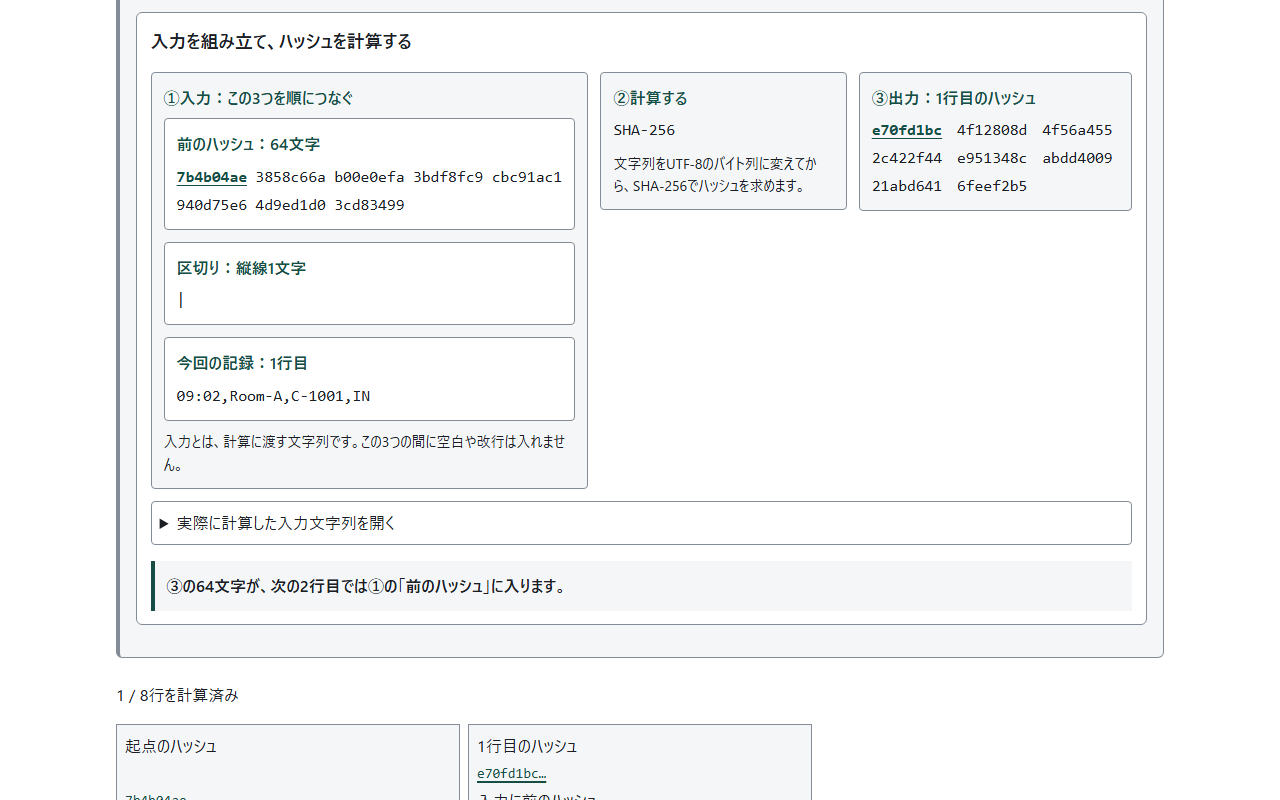
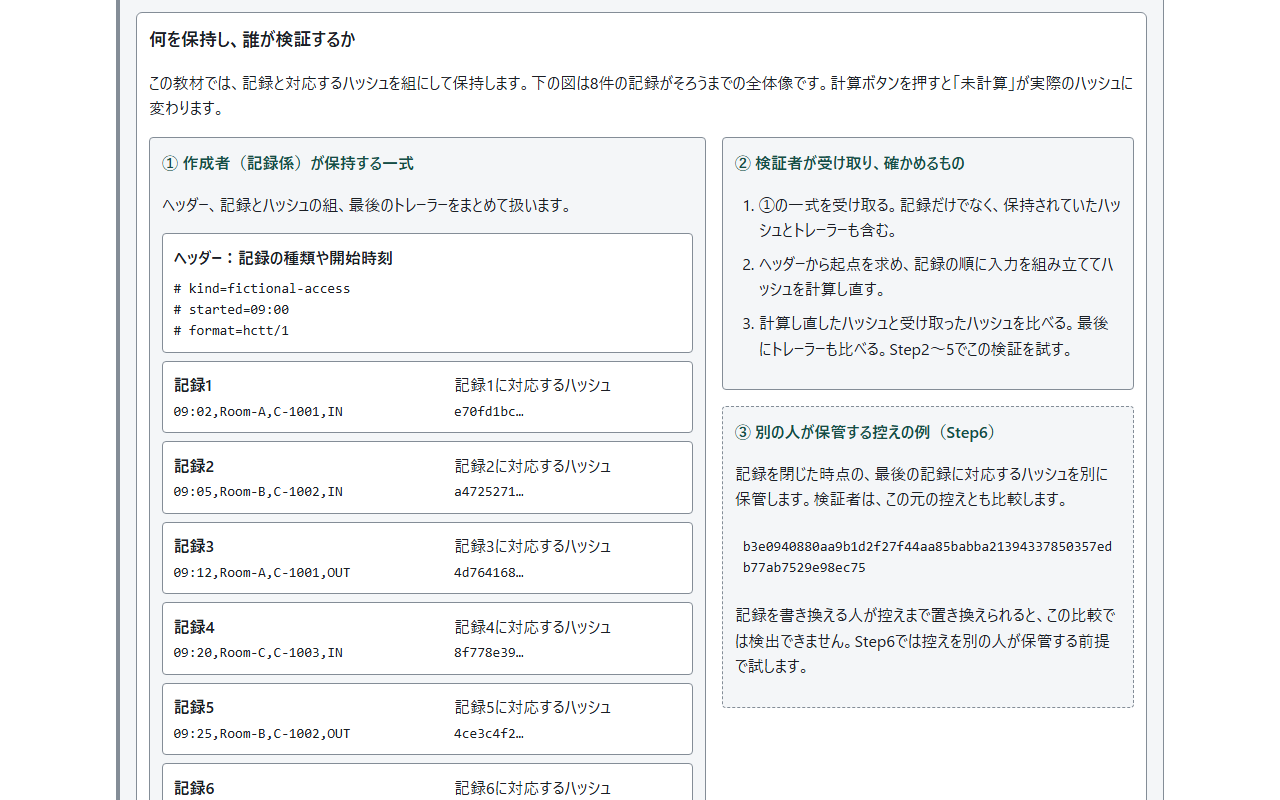
保持するデータと検証者の役割を全体図で説明

diff --git a/messages.js b/messages.js
@@ -459,6 +459,27 @@
     "guide.now": "いま起きたこと",
     "guide.mechanism": "仕組みの解説",
     "guide.waiting": "このステップの操作は、まだ実行していません。\n\n上のボタンを押すと、何を変更し、どの値が一致または不一致になったかをここに表示します。",
+    "overview.title": "何を保持し、誰が検証するか",
+    "overview.sample": "まず、架空の入退室データを見ます。時刻・部屋・カードID・入退室の4項目で1件の記録です。",
+    "overview.intro": "この教材では、記録と対応するハッシュを組にして保持します。下の図は8件の記録がそろうまでの全体像です。計算ボタンを押すと「未計算」が実際のハッシュに変わります。",
+    "overview.recorder": "① 作成者（記録係）が保持する一式",
+    "overview.bundle": "ヘッダー、記録とハッシュの組、最後のトレーラーをまとめて扱います。",
+    "overview.header": "ヘッダー：記録の種類や開始時刻",
+    "overview.pending": "未計算",
+    "overview.trailer": "トレーラー：件数と終わりを確認する値",
+    "overview.trailerPending": "8件すべてのハッシュを計算した後、最後のハッシュと「rows=8」から求めます。",
+    "overview.hashNote": "記録と並べるハッシュは先頭8文字だけを表示します。64文字の全文と計算用入力は、下の計算結果を開くと読めます。",
+    "overview.verifier": "② 検証者が受け取り、確かめるもの",
+    "overview.receive": "①の一式を受け取る。記録だけでなく、保持されていたハッシュとトレーラーも含む。",
+    "overview.recompute": "ヘッダーから起点を求め、記録の順に入力を組み立ててハッシュを計算し直す。",
+    "overview.compare": "計算し直したハッシュと受け取ったハッシュを比べる。最後にトレーラーも比べる。Step2〜5でこの検証を試す。",
+    "overview.keeper": "③ 別の人が保管する控えの例（Step6）",
+    "overview.checkpoint": "記録を閉じた時点の、最後の記録に対応するハッシュを別に保管します。検証者は、この元の控えとも比較します。",
+    "overview.tipPending": "8件の計算が終わると、控えにするハッシュの例をここに表示します。",
+    "overview.independent": "記録を書き換える人が控えまで置き換えられると、この比較では検出できません。Step6では控えを別の人が保管する前提で試します。",
+    "overview.input": "計算用の入力文字列は、保持する記録そのものとは別です。「前のハッシュ64文字」＋「|」＋「今回の記録の4項目」を一時的につなぎ、全体をUTF-8のバイト列に変換してSHA-256に渡します。記録1では、前のハッシュに起点を使います。",
+    "overview.scope": "これは本ツールで扱う構成の一例です。ファイル形式や公開範囲は運用で決めます。ここでは全役割を同じブラウザー内で再現し、データを外へ送ったりファイルに保存したりしません。",
+    "overview.jump": "完成したデータの全体図へ戻る",
     "guide.sample": "サンプルは架空の入退室データ8件です。時刻、部屋、架空のカードID、入室INまたは退室OUTの4項目を1件の「記録」とし、記録1〜記録8の番号を付けます。\n\nたとえば記録1「09:02,Room-A,C-1001,IN」は、9時2分に部屋AでカードC-1001が入室したことを表します。\n\n「記録1」はこの4項目のデータです。「記録1に対応するハッシュ」は、その記録を含む入力から計算した出力です。\n\nこの教材では、記録と対応するハッシュを組にしてブラウザー内で保持します。検証では新しく計算したハッシュと、保持していたハッシュを比べます。画面に両方を示すのは学習のためで、実際の運用で記録の一般公開が必要という意味ではありません。",
     "guide.hashDisplay": "ハッシュの全文は64文字あります。まず、起点のハッシュを例に、画面の短縮表示と全文を見比べてください。",
     "guide.avalanche": "この例では、時刻を「09:05」から「09:06」へ1文字変えるだけで、ハッシュの多くの桁が変わります。\n\n入力の小さな変化が出力の多くの部分に影響する性質を、雪崩効果と呼びます。操作後の比較では、変わった桁を色と下線で示します。",
@@ -1070,6 +1091,27 @@
     "guide.now": "What just happened",
     "guide.mechanism": "How it works",
     "guide.waiting": "This step has not been run yet.\n\nPress the button above to see an explanation using the calculated values.",
+    "overview.title": "What is kept, and who verifies it?",
+    "overview.sample": "Start with fictional access data. One record contains four fields: time, room, card ID, and entry or exit.",
+    "overview.intro": "This tool keeps each record together with its corresponding hash. The diagram shows the structure for all eight records. As you calculate, Pending is replaced by each actual hash.",
+    "overview.recorder": "1. The bundle kept by the recorder",
+    "overview.bundle": "Keep the header, record/hash pairs, and closing trailer together.",
+    "overview.header": "Header: record type and start time",
+    "overview.pending": "Pending",
+    "overview.trailer": "Trailer: a check of the count and ending",
+    "overview.trailerPending": "After all eight hashes are calculated, derive the trailer from the final hash and rows=8.",
+    "overview.hashNote": "Hashes beside the records show only their first eight characters. Expand the calculation results below to read all 64 characters and the input string.",
+    "overview.verifier": "2. What the verifier receives and checks",
+    "overview.receive": "Receive the entire bundle in 1, including the stored hashes and trailer as well as the records.",
+    "overview.recompute": "Derive the seed from the header, then rebuild each input and recompute its hash in record order.",
+    "overview.compare": "Compare each recomputed hash with the received hash, then compare the trailer. Try this verification in steps 2–5.",
+    "overview.keeper": "3. A checkpoint held by someone else (step 6)",
+    "overview.checkpoint": "At log closure, keep the final record’s hash separately. The verifier also compares against this original checkpoint.",
+    "overview.tipPending": "Complete all eight calculations to see the hash that could be kept as the checkpoint.",
+    "overview.independent": "This comparison cannot detect a change if the person changing the records can also replace the checkpoint. Step 6 assumes a different person holds it.",
+    "overview.input": "The calculation input is distinct from the stored record. Temporarily join the previous 64-character hash, |, and the current record’s four fields. Encode the whole string as UTF-8 bytes and pass it to SHA-256. Record 1 uses the seed as its previous hash.",
+    "overview.scope": "This is one arrangement used by this tool. File formats and access policies are deployment choices. Every role is simulated in the same browser; no data is sent out or saved to a file.",
+    "overview.jump": "Return to the completed data overview",
     "guide.sample": "The sample contains 8 fictional access records, numbered record 1 through record 8. Each record has four fields: time, room, fictional card ID, and entry IN or exit OUT.\n\nRecord 1, “09:02,Room-A,C-1001,IN”, describes card C-1001 entering Room A at 09:02.\n\n“Record 1” means those four data fields. “The hash for record 1” means the output calculated from an input that includes that record.\n\nThis tool keeps each record together with its corresponding hash in browser memory. Verification compares a newly calculated hash with the stored hash. Both are displayed for learning; this does not mean real deployments must make records public.",
     "guide.hashDisplay": "A full hash has 64 characters. Use the seed hash below to compare the short screen display with the complete value.",
     "guide.avalanche": "Even a small input change alters many hash digits.\n\nThis is called the avalanche effect. The comparison marks changed digits with color and underlines.",

diff --git a/app.js b/app.js
@@ -729,6 +729,68 @@
     return [observation('guide.waiting')];
   }
 
+  function chainOverview() {
+    const figure = node('figure', undefined, 'chain-overview');
+    figure.id = 'guide-chain-overview';
+    figure.tabIndex = -1;
+    const caption = node('figcaption', t('overview.title'));
+    caption.id = 'guide-chain-overview-caption';
+    figure.setAttribute('aria-labelledby', caption.id);
+    figure.append(caption, node('p', t('overview.intro')));
+    const layout = node('div', undefined, 'overview-layout');
+    const bundle = node('div', undefined, 'overview-bundle');
+    bundle.append(node('strong', t('overview.recorder')), node('p', t('overview.bundle')));
+    const header = node('div', undefined, 'overview-part');
+    header.append(node('strong', t('overview.header')), node('pre', samples[0].headers.join('\n')));
+    const list = node('ol', undefined, 'overview-records');
+    samples[0].rows.forEach((fields, i) => {
+      const pair = node('li', undefined, 'overview-pair');
+      pair.dataset.record = String(i + 1);
+      const record = node('div');
+      record.append(node('strong', t('visual.row', {n:i + 1})), node('code', fields.join(',')));
+      const output = node('div');
+      output.append(node('span', t('guide.flowRow', {n:i + 1})));
+      const hash = guide.partial && i < guide.shown ? guide.partial.rows[i].hash : null;
+      pair.dataset.computed = String(!!hash);
+      if (hash) {
+        const value = node('code', shortHash(hash), 'overview-hash');
+        value.title = hash;
+        output.append(value);
+      } else output.append(node('span', t('overview.pending'), 'muted'));
+      pair.append(record, output);
+      list.append(pair);
+    });
+    const trailer = node('div', undefined, 'overview-part overview-trailer');
+    trailer.append(node('strong', t('overview.trailer')));
+    const complete = guide.shown === samples[0].rows.length && guide.partial && guide.partial.trailer;
+    if (complete) {
+      trailer.append(node('code', 'rows=' + guide.partial.rows.length), node('code', guide.partial.trailer.hash, 'hash'));
+    } else trailer.append(node('p', t('overview.trailerPending')));
+    bundle.append(header, list, trailer, node('p', t('overview.hashNote'), 'muted'));
+    const people = node('div', undefined, 'overview-people');
+    const verifier = node('div', undefined, 'overview-person');
+    verifier.append(node('strong', t('overview.verifier')));
+    const checks = node('ol');
+    for (const key of ['receive', 'recompute', 'compare']) checks.append(node('li', t('overview.' + key)));
+    verifier.append(checks);
+    const keeper = node('div', undefined, 'overview-person overview-independent');
+    keeper.append(node('strong', t('overview.keeper')), node('p', t('overview.checkpoint')));
+    if (complete) keeper.append(node('code', core.tip(guide.partial), 'hash overview-tip'));
+    else keeper.append(node('p', t('overview.tipPending'), 'muted'));
+    keeper.append(node('p', t('overview.independent')));
+    people.append(verifier, keeper);
+    layout.append(bundle, people);
+    figure.append(layout, node('p', t('overview.input'), 'privacy'), node('p', t('overview.scope'), 'muted'));
+    return figure;
+  }
+
+  $('guide-overview-jump').addEventListener('click', () => {
+    const figure = $('guide-chain-overview');
+    if (!figure) return;
+    figure.focus({preventScroll:true});
+    figure.scrollIntoView({block:'start'});
+  });
+
   function sampleIllustration() {
     const fields = samples[0].rows[0];
     const figure = node('figure', undefined, 'sample-illustration');
@@ -965,6 +1027,9 @@
     $('guide-aim').textContent = t('guide.' + step + '.aim');
     const background = $('guide-background');
     background.replaceChildren();
+    if (step === 1) {
+      background.append(node('p', t('overview.sample')), sampleIllustration(), chainOverview());
+    }
     for (const lesson of guidePrerequisites[step - 1]) {
       const content = lessonPrerequisite(lesson);
       content.querySelector('h4').remove();
@@ -973,7 +1038,7 @@
       background.append(content);
     }
     if (step === 1) {
-      background.append(node('p',t('guide.sample')),sampleIllustration(),node('p',t('guide.hashDisplay')),hashDisplayExample());
+      background.append(node('p',t('guide.sample')),node('p',t('guide.hashDisplay')),hashDisplayExample());
     }
     if (step === 2) background.append(node('p',t('guide.avalanche')));
     if (step === 7) background.append(node('p',t('guide.7.prerequisite')));
@@ -1046,6 +1111,7 @@
     renderUnderstanding();
     $('guide-back-to-quiz').hidden = state.returnQuestion === null || step === 7;
     $('guide-reset').hidden = step < 2 || step > 4;
+    $('guide-overview-jump').hidden = step !== 1 || guide.shown !== samples[0].rows.length;
     $('guide-options').hidden = step !== 6;
     $('guide-quiz').hidden = step !== 7 || !guide.quizOpen;
     $('panel-quiz').hidden = !guide.quizOpen;

diff --git a/style.css b/style.css
@@ -356,6 +356,28 @@ progress { flex: 1; min-width: 0; height: 0.75rem; accent-color: var(--accent); 
 .lesson-points { padding-inline-start: 1.5rem; }
 .lesson-points li { margin-block: 0.65rem; }
 
+.chain-overview { margin: 1.25rem 0; padding: 0.75rem; border: 1px solid var(--border); border-radius: 6px; background: var(--bg); }
+.chain-overview figcaption { font-size: 1.125rem; font-weight: 700; }
+.overview-layout, .overview-people { display: grid; gap: 1rem; align-items: start; }
+.overview-bundle, .overview-person { min-width: 0; padding: 0.75rem; border: 1px solid var(--border); border-radius: 4px; background: var(--surface); }
+.overview-bundle > strong, .overview-person > strong { color: var(--accent); }
+.overview-part { padding: 0.65rem; border: 1px solid var(--border); border-radius: 4px; background: var(--bg); }
+.overview-part pre { white-space: pre-wrap; margin-block: 0.5rem 0; }
+.overview-records { padding: 0; list-style: none; display: grid; gap: 0.5rem; margin-block: 0.5rem; }
+.overview-pair { min-width: 0; display: grid; gap: 0.5rem; padding: 0.65rem; border: 1px solid var(--border); border-radius: 4px; background: var(--bg); }
+.overview-pair > div { min-width: 0; }
+.overview-pair code, .overview-trailer code { display: block; }
+.overview-pair code { margin-block-start: 0.2rem; }
+.overview-pair [class="muted"] { display: block; }
+.overview-independent { border-style: dashed; }
+.overview-person ol { padding-inline-start: 1.5rem; }
+.overview-person li { margin-block: 0.5rem; }
+.overview-jump { margin-block-start: 0.75rem; width: fit-content; max-width: 100%; }
+@media (min-width: 700px) {
+  .overview-layout { grid-template-columns: minmax(0, 1.35fr) minmax(0, 1fr); }
+  .overview-pair { grid-template-columns: minmax(0, 1.2fr) minmax(0, 1fr); }
+}
+
 .sample-illustration { margin: 1.25rem 0; padding: 0.75rem; border: 1px solid var(--border); border-radius: 6px; background: var(--bg); }
 .sample-illustration figcaption { font-weight: 700; margin-block-end: 0.75rem; }
 .sample-illustration-layout { display: grid; gap: 1rem; align-items: center; }

diff --git a/index.html b/index.html
@@ -50,6 +50,7 @@
         <p id="guide-build-status" class="build-status" role="status" aria-atomic="true"></p>
       </div>
       <div class="actions"><button id="guide-action" class="primary"></button><button id="guide-build-reset" data-i18n="guide.build.reset" hidden></button><button id="guide-build-next" data-i18n="guide.build.nextStep" hidden></button><button id="guide-reset" data-i18n="resetTamper" hidden></button></div>
+      <button id="guide-overview-jump" class="overview-jump" type="button" data-i18n="overview.jump" hidden></button>
       </section>
       <section id="guide-observation-section" class="guide-observation"><h3 data-i18n="guide.now"></h3><div id="guide-now" aria-live="polite"></div>
           <div id="guide-visual"></div></section>

diff --git a/README.en.md b/README.en.md
@@ -10,7 +10,10 @@ English · [日本語](README.md)
 
 **Day117 - 200 Security Tools with Generative AI**
 
-Hash Chain Tamper Trainer explores what a hash chain can and cannot detect.
+Hash Chain Tamper Trainer explores what a hash chain can and cannot detect. A hash is the output of a hash function.
+
+This tool keeps records with their corresponding hashes and compares them with recomputed hashes. The overview in step 1 shows the data structure and the roles of the recorder, verifier and independent checkpoint holder.
+
 Change fictional records and recompute the following hashes to see verification pass again. The tool also computes the outcomes of adding a held checkpoint, HMAC, a signature or a time-stamp for people with different access to keys.
 
 ## 🌐 Demo
@@ -23,7 +26,7 @@ Download the files and open `index.html` in a browser to use it over file://. No
 
 ![Learning path step 1](assets/en/chain.png)
 
-*Step 1 explains the fictional record and uses the calculated hashes in What just happened to follow each row.*
+*The step-1 overview after all eight calculations. It separates the recorder who holds the record/hash pairs, the verifier who receives the bundle, and the independent checkpoint holder.*
 
 ![Learning path step 6](assets/en/protections.png)
 
@@ -46,16 +49,16 @@ Japanese, English, and light and dark themes are supported. Language changes pre
 
 ## 📖 Usage
 
-Step 1 pairs an illustration of card access with four labeled fields to explain one entry/exit record.
+Step 1 starts its prerequisites with the card-access illustration and a data overview: the header, eight record/hash pairs, the trailer and an independently held checkpoint. Pending hashes are replaced by actual results as you calculate. After all eight calculations, use Return to the completed data overview to inspect the finished structure.
 
 The Learning path opens first. Read the aim and prerequisites, then use the main button. What just happened includes calculated hashes and verification results. Read How it works and What you learned below for the reasons. Prerequisites are open from the start and include links to related tools.
 
-1. Build a chain: read what the fictional access log and starting hash mean, then calculate one row at a time. An eight-row diagram shows calculated, next, and pending rows. Restart from row 1 during or after the calculation. Follow the explanations of each input and hash, ending with the trailer that includes the row count.
-2. Change one character: change row 2 from 09:05 to 09:06, see the mismatch at row 2 and inspect changed hash digits.
-3. Recompute just that row: recalculate row 2 of the same record and observe the first mismatch move to row 3.
-4. Rebuild all later hashes: rechain the modified record and compare the failing step-3 result with the passing step-4 result.
-5. Cut off the tail: remove the last two original rows and compare verification with and without a trailer.
-6. Add protections: select checkboxes and compare the outsider with the recorder.
+1. Build a chain: calculate the hash for each of records 1–8. Inspect the stored pairs in the overview and distinguish the input string, UTF-8 bytes and output in the calculation diagram. Finish with the trailer and an example of the tip to keep as a checkpoint. Restart from record 1 at any time.
+2. Change one character: change the time in record 2 from 09:05 to 09:06 and verify while retaining the stored hashes. The first mismatch is the hash comparison for record 2.
+3. Update only the hash for the changed record: calculate from the input containing the changed record 2 and replace its stored hash. The first mismatch moves to record 3.
+4. Rebuild all later hashes: replace all hashes and the trailer. See verification pass with the changed records, alongside the failing step-3 result.
+5. Cut off the tail: remove original records 7 and 8. The six remaining hashes match, but comparison with the original trailer fails.
+6. Add protections: select a held checkpoint, HMAC, a signature or a simulated time-stamp. Compare an outsider with the key-holding recorder. Test the checkpoint role introduced in the step-1 overview.
 7. Check your understanding: answer eight questions. Questions 1–6 lead to explanations within the relevant step; questions 7–8 lead to Learn. Both destinations let you return to the same question.
 
 Use Next, Back or the step bar to jump freely. On narrow screens, open Choose a step. Steps 2–4 continue the same record and provide a reset button. Starting at a later step prepares the preceding records as needed.
@@ -76,11 +79,35 @@ Diagrams show the status of all 8 rows, tail deletion, and the people who hold k
 
 ## 🔬 Chain format and verification results
 
-The seed is SHA-256 of the header lines joined with LF. Excluding the header uses 64 zeros instead. Each row hashes `previousHash + '|' + fields.join(',')`; the trailer hashes `lastHash + '|rows=' + count`.
+This tool keeps records paired with their corresponding hashes, as shown below. This is a content structure, not a universal CSV or JSON specification. File formats, storage locations and access policies are deployment choices; neither records nor hashes need to be made public.
 
-Hashes have 64 hexadecimal characters. Step 1 explanations and rows show the first 8 followed by an ellipsis. Other compact rows show the first 8 characters of the preceding hash and the first 12 of the current hash. Expanding a row reveals the complete value. Records contain 4 ASCII fields of 1–64 characters each, up to 100 rows. Commas, pipes and control characters are rejected. Whitespace is not trimmed and Unicode is not normalized. HMAC mode retains the SHA-256 seed and uses HMAC-SHA256 for data rows and the trailer.
+```plaintext
+Bundle held by the recorder
+  Header                    Record type, start time, etc.
+  Record 1 + its hash
+  Record 2 + its hash
+  ...
+  Record 8 + its hash
+  Trailer                   Check of the count and ending
+```
 
-The following results use the 8-row access log with its header and trailer. Operations target row 2; truncation removes the last 2 rows. A `-` means the remaining rows match but the original trailer does not. `pass` means verification succeeds after rechaining.
+| Role | What is kept, received or compared |
+|---|---|
+| Recorder | Keeps the bundle above and gives it to the verifier |
+| Verifier | Receives the bundle, recomputes from the header onward, and compares with the received hashes and trailer |
+| Independent checkpoint holder (step 6) | Keeps the final hash at log closure separately; the verifier compares the current tip with this original checkpoint |
+
+Keeping a checkpoint beside the records is insufficient if the person changing the records can replace it too. Step 6 assumes a different person holds the checkpoint. HMAC, signatures and time-stamps also depend on who holds keys and whether the verifier independently knows the closing time.
+
+This tool simulates all roles in the same browser. It does not send data to another person or save it as a file.
+
+**The stored record is distinct from the calculation input.** Record 2 contains the four fields in `09:05,Room-B,C-1002,IN`. Its input also includes the 64-character hash for record 1 and the separator `|`. Encode the complete joined string as UTF-8 bytes and pass it to SHA-256 to obtain the hash for record 2.
+
+The seed is SHA-256 of the header lines joined with LF. Excluding the header uses 64 zeros instead. Each record’s calculation hashes `previousHash + '|' + fields.join(',')`; the trailer hashes `lastHash + '|rows=' + count`.
+
+Hashes have 64 hexadecimal characters. The step-1 overview and result summaries show the first 8 followed by an ellipsis. Other compact rows show the first 8 characters of the preceding hash and the first 12 of the current hash. Expanding a row reveals the complete value. Records contain 4 ASCII fields of 1–64 characters each, up to 100 rows. Commas, pipes and control characters are rejected. Whitespace is not trimmed and Unicode is not normalized. HMAC mode retains the SHA-256 seed and uses HMAC-SHA256 for data rows and the trailer.
+
+The following results use the 8-row access log with its header and trailer. Operations target record 2; truncation removes the last 2 rows. A `-` means the remaining rows match but the original trailer does not. `pass` means verification succeeds after rechaining.
 
 | Operation ID | Operation | First mismatching row | After rechaining |
 |---|---|---|---|
@@ -90,9 +117,9 @@ The following results use the 8-row access log with its header and trailer. Oper
 | `insert` | Insert | 2 | pass |
 | `truncate` | Remove the last 2 rows | - | pass |
 | `header` | Rewrite the header | 1 | pass |
-| `rehashOne` | Recompute only the rewritten row | 3 | pass |
+| `rehashOne` | Update only the hash for the rewritten record | 3 | pass |
 
-Without a trailer, removing the last 2 rows passes. Rewriting and recomputing only the last row also passes without a trailer. A header excluded from the chain can change undetected. Different modifications can produce the same verification result, so the tool does not infer the modification type.
+Without a trailer, removing the last 2 rows passes. Rewriting only the last record and updating its hash also passes without a trailer. A header excluded from the chain can change undetected. Different modifications can produce the same verification result, so the tool does not infer the modification type.
 
 In the next table, ○ means detected and × means undetected. A different person holds the checkpoint. For time-stamps, the verifier knows the closing deadline independently of the log.
 

diff --git a/CLAUDE.md b/CLAUDE.md
@@ -77,3 +77,5 @@ DOMは`createElement`と`textContent`で組み立てます。CSPは`connect-src 
 説明の図はHTML/CSSで作り、短縮表示と全文、入力の3要素、行ごとの検証結果、削除した末尾、役割の違いを示します。ハッシュと判定は計算結果から取得し、表示用の固定値を埋め込みません。全文は8文字ずつ配置しますが、空白や省略記号を計算に入れません。各図は既存の見出し別チェックの範囲内に置きます。座学4節にも具体例を置きます。辞書の改行は、前提知識・観察では段落、通常の説明では意味ごとの空行として表示します。
 
 ステップ1の入力文字列を開くと、直下にTextEncoderで変換した全バイトを16進数2桁ずつ表示します。起点と全8行に対応し、バイト数・先頭2文字・縦棒・LFの対応を説明します。表示は実際の入力から生成し、暗号計算と固定期待値は変更しません。
+
+Step1の前提知識は入室イラストとデータの全体図から始めます。全体図はヘッダー・8件の記録と対応するハッシュ・トレーラー、受け取る検証者、Step6で独立して保管する控えの例を示します。ハッシュとトレーラーはguide.partialの計算結果から表示し、未計算の値を先に埋めません。控えはStep6の構成例であり、Step1で外部へ送信・保存したとは表現しません。完成後のボタンで全体図へ移動し、再計算・言語切替・理解チェックと独立させます。
